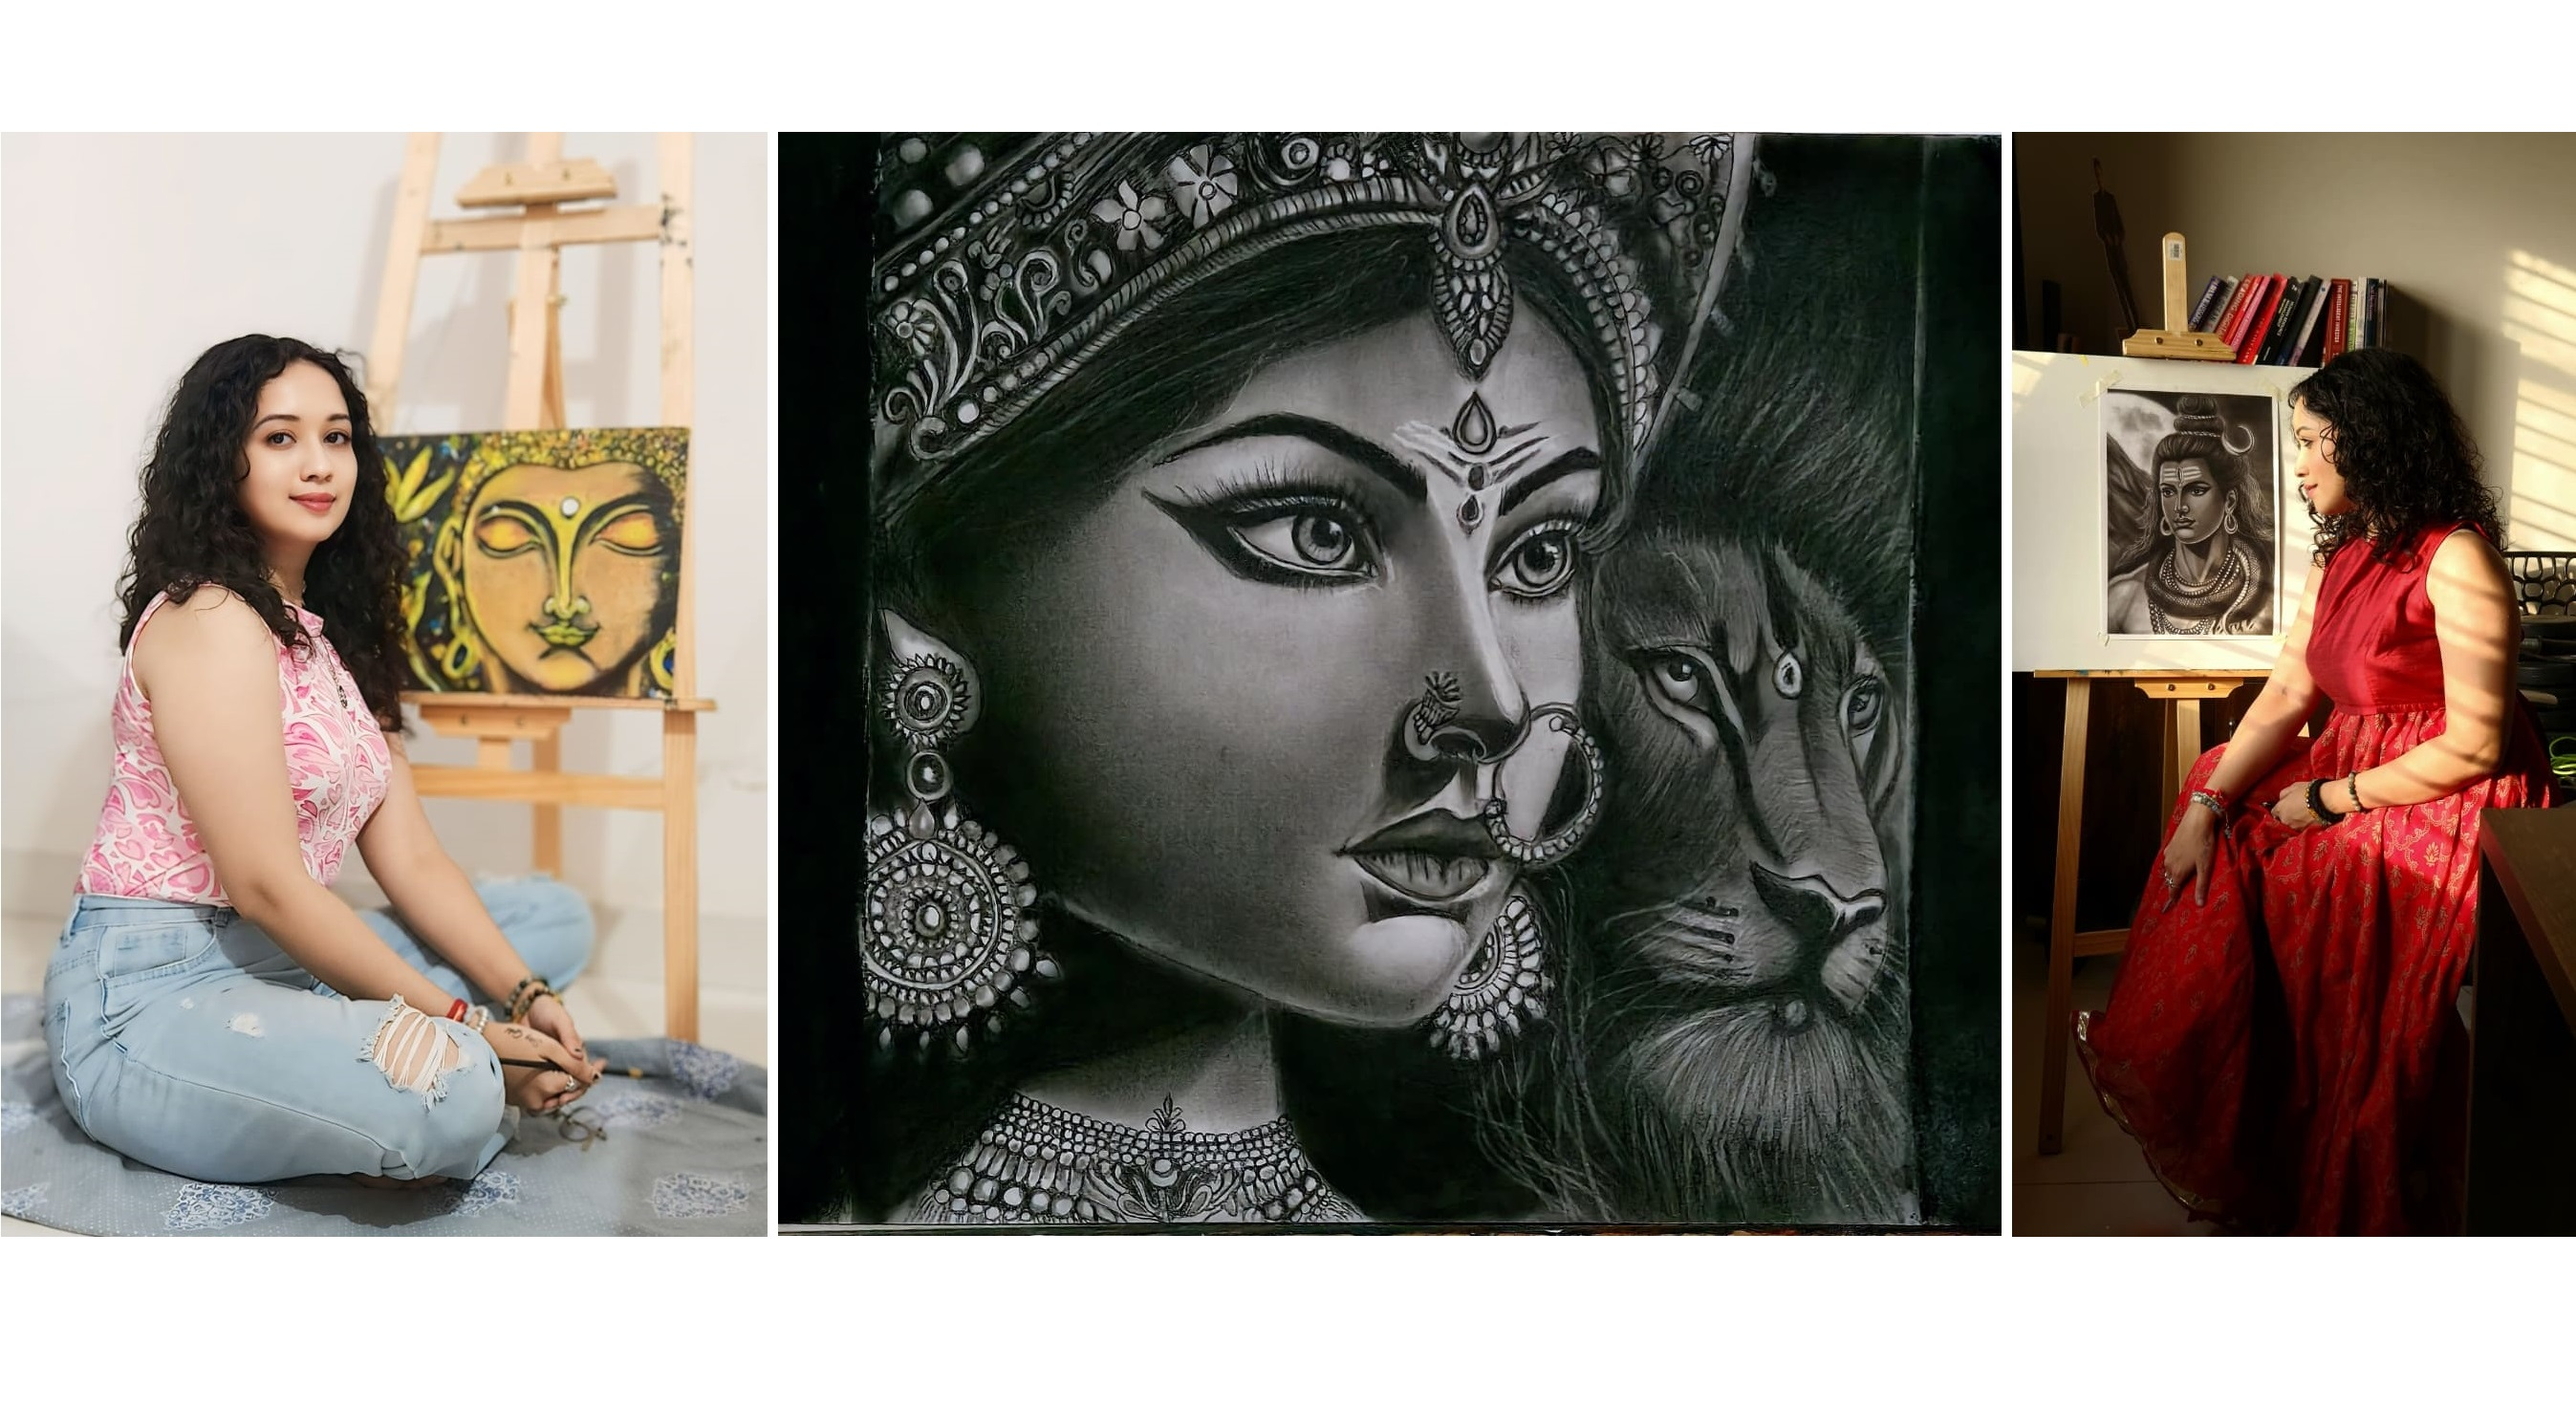
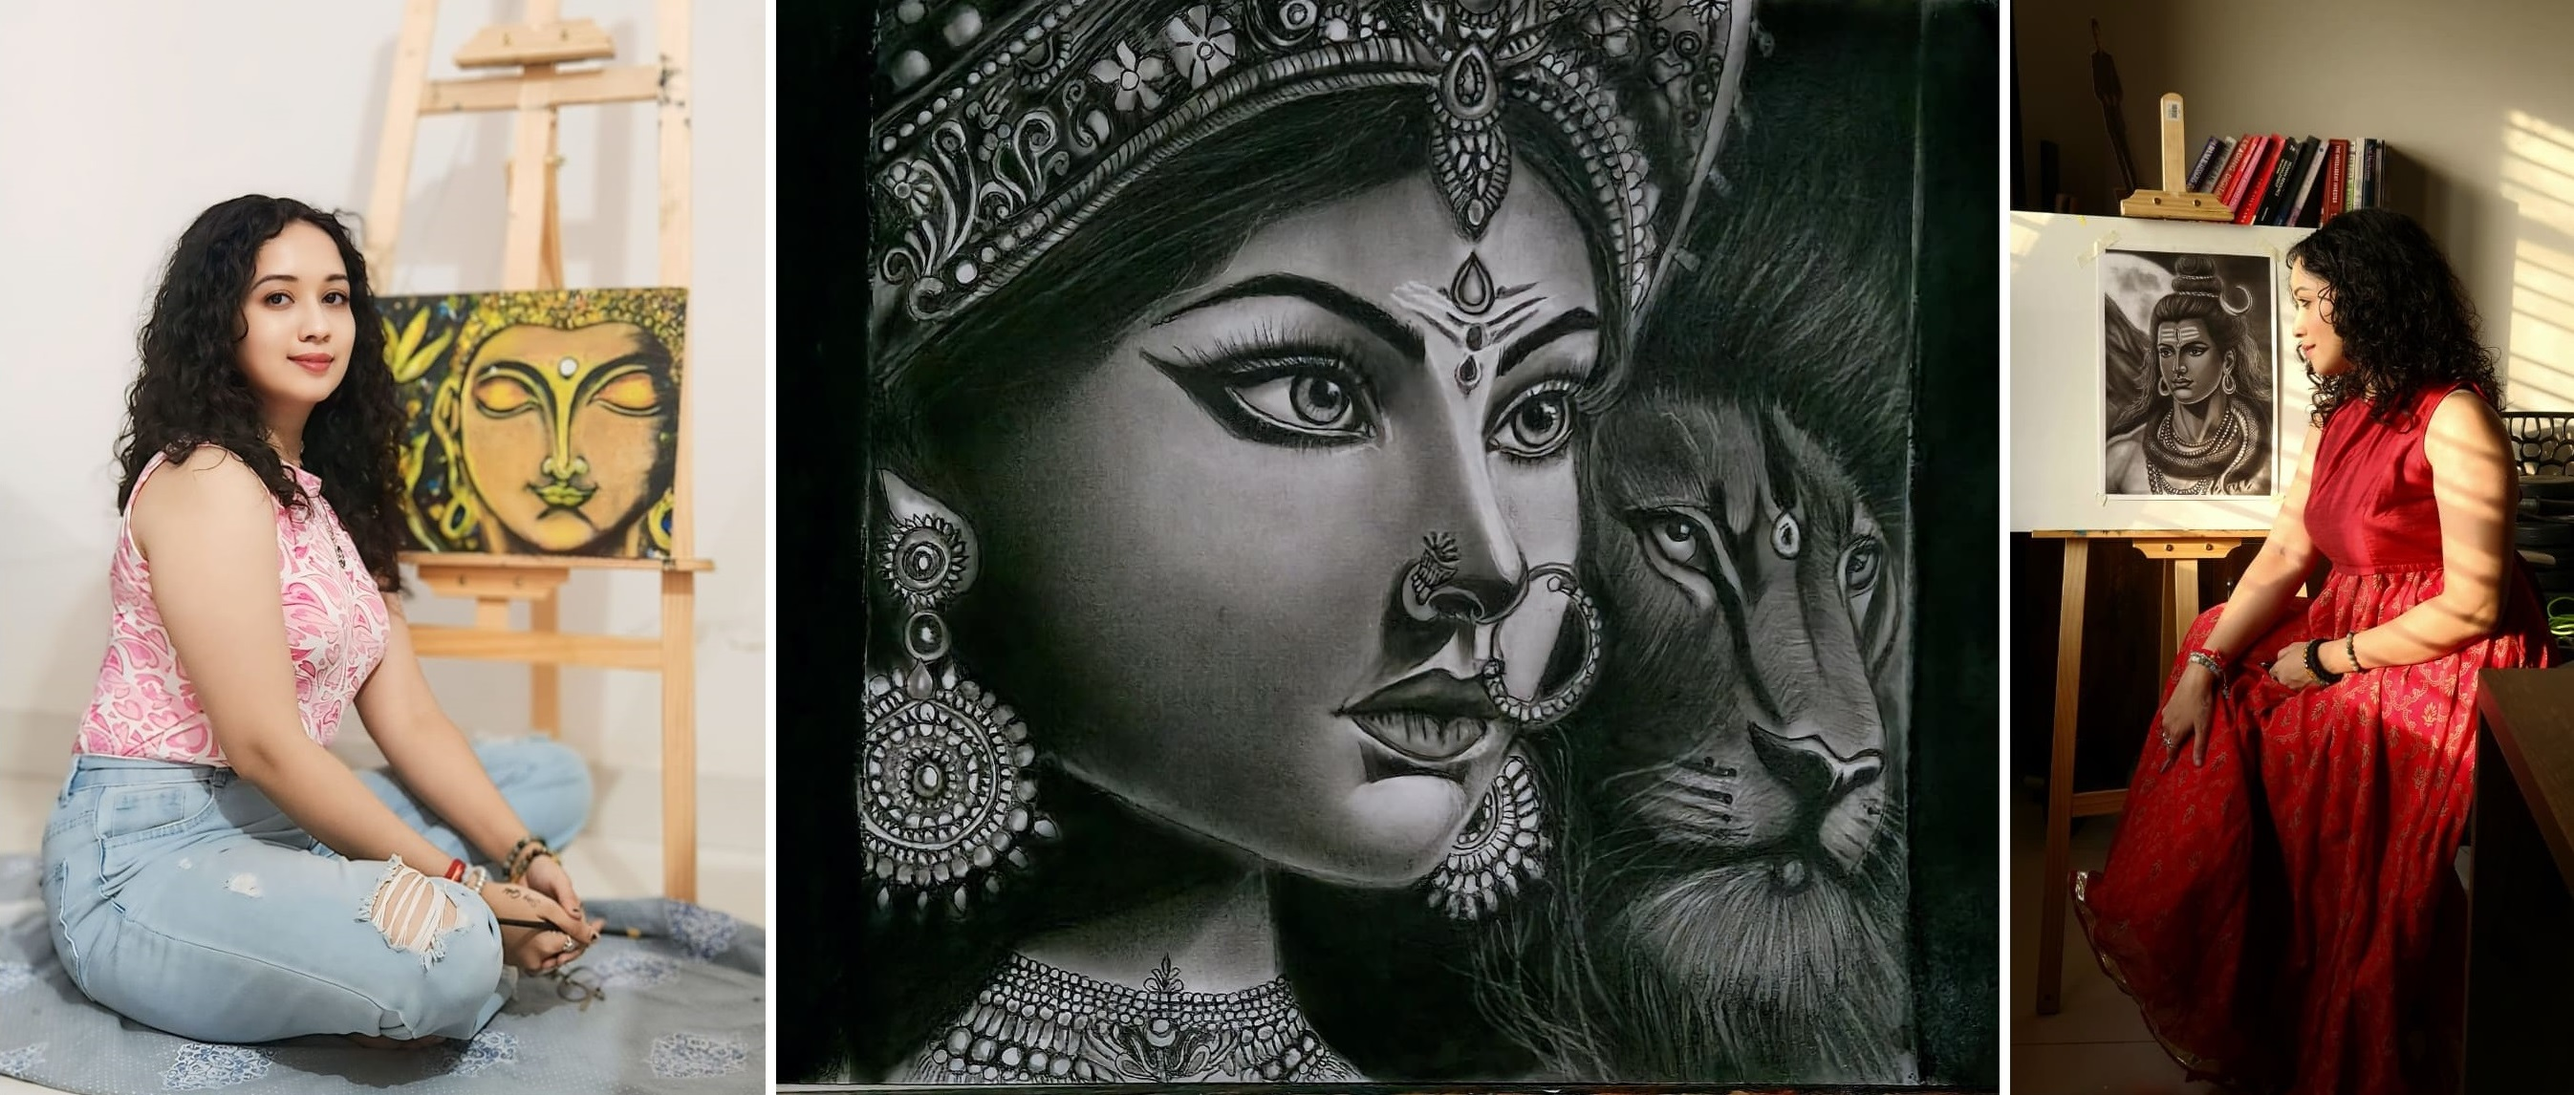
alignments

diff --git a/joinnow.html b/joinnow.html
@@ -267,7 +267,7 @@
         <div class="space-y-6 text-center">
 
           <div class="flex justify-center">
-            <img src="art-campus-logo.png" alt="Art Campus Logo" class="w-65 md:w-80 drop-shadow-xl">
+            <img src="art-campus-logo.png" alt="Art Campus Logo" class="w-64 md:w-80 drop-shadow-xl">
           </div>
         
           <!-- Heading -->
@@ -283,10 +283,9 @@
               Phase - 1
             </h2>
           </div>
-          <!-- Logo -->
-          
+
           <div class="flex justify-center">
-            <img src="collage_2.jpg" alt="Art Campus Logo" class="w-64 md:w-180 drop-shadow-xl">
+            <img src="collage_2.jpg" alt="Art Campus Logo" class="w-full max-w-xs sm:max-w-md md:max-w-lg lg:max-w-xl h-auto drop-shadow-xl">
           </div>
         
           <!-- Description -->
